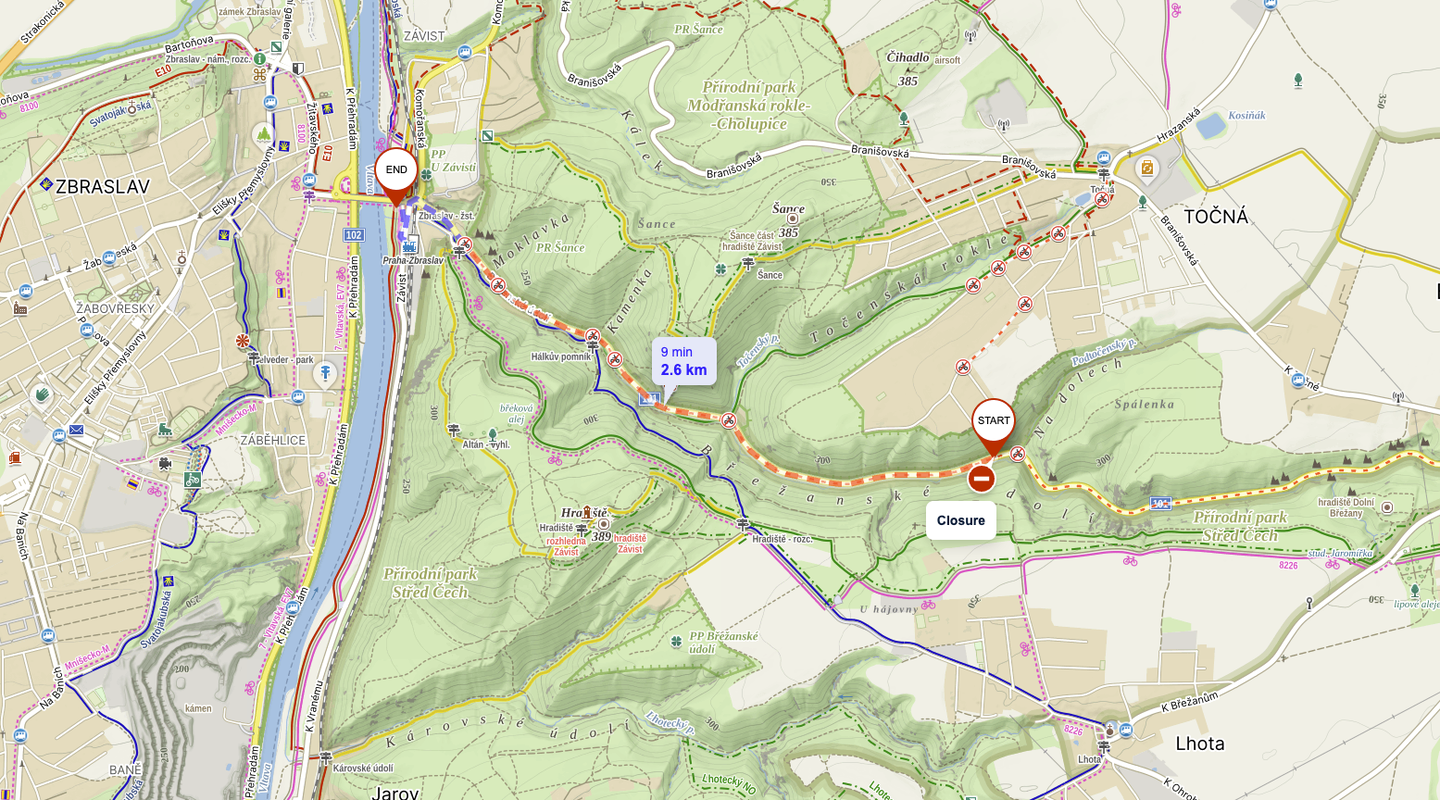
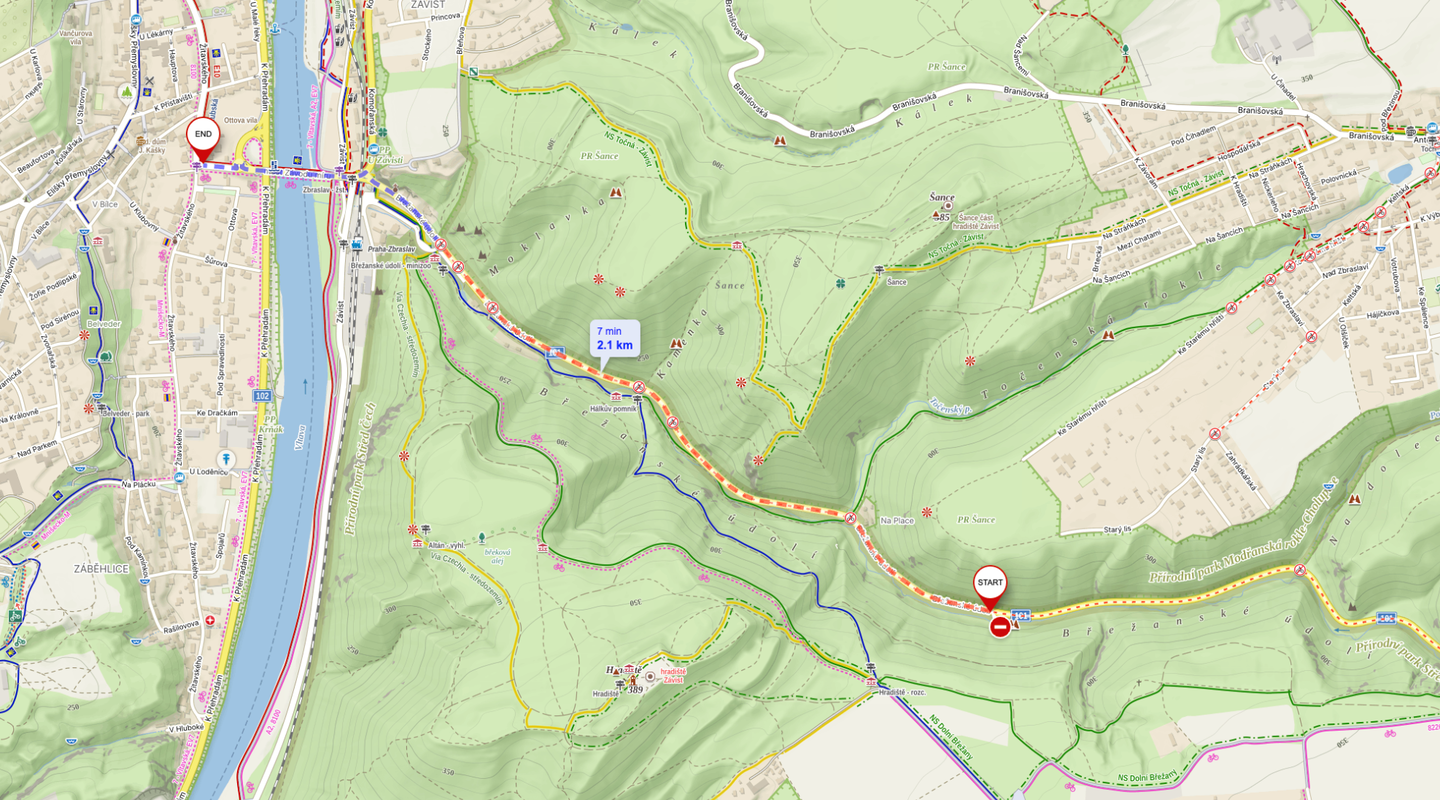
site: every-path slider gets new matched pair; drop road-type & planning placeholders
Wire path1/path2 (Mapy/Strava) into the 'Every path' slider (cache-bust v2).
Remove the two placeholder rows and fold their points into the surviving
sliders: road-types into the terrain row, route-planning into the every-path row.
Drop now-unused .cmp-shot CSS.

diff --git a/site/index.html b/site/index.html
@@ -138,10 +138,6 @@
     .cmp-list { display: flex; flex-direction: column; gap: 36px; margin-top: 10px; }
     .cmp h3 { margin: 0 0 5px; font-size: 19px; }
     .cmp p { margin: 0 0 14px; color: var(--muted); max-width: 760px; }
-    .cmp-shot { width: 100%; aspect-ratio: 18 / 7; border-radius: var(--radius); border: 2px dashed #d8d8e0;
-        background: #fff; display: flex; align-items: center; justify-content: center; color: #a6a6b0;
-        font-size: 14px; text-align: center; padding: 14px; }
-    .cmp-shot img { width: 100%; border-radius: var(--radius); border: 1px solid var(--line); box-shadow: var(--shadow); display: block; }
 
     /* before/after compare slider */
     .ba { position: relative; aspect-ratio: 18 / 10; border-radius: var(--radius); overflow: hidden;
@@ -300,8 +296,8 @@
                 on the left, <a class="strava-link" href="https://www.strava.com/maps/global-heatmap" target="_blank" rel="noopener">Strava</a> on the right.</p>
             <div class="cmp-list">
                 <div class="cmp">
-                    <h3>⛰️ See the terrain</h3>
-                    <p>Gradient shading and contours tell you instantly whether it's hilly or flat, forest or open — Strava's base map stays flat and bare.</p>
+                    <h3>⛰️ See the terrain — and the roads</h3>
+                    <p>Gradient shading and contours tell you instantly whether it's hilly or flat, forest or open — and busy main roads, quiet lanes, and gravel or forest tracks are each coloured differently, so your A→B isn't a highway full of cars. Strava's base map stays flat and bare.</p>
                     <div class="ba">
                         <img class="ba-img" src="img/cmp-terrain-strava.png?v=2" alt="Same area on Strava">
                         <img class="ba-img ba-top" src="img/cmp-terrain-mapy.png?v=2" alt="Same area on Mapy.com">
@@ -312,28 +308,16 @@
                     </div>
                 </div>
                 <div class="cmp">
-                    <h3>🛣️ Know the road before you ride it</h3>
-                    <p>Mapy.com colours a busy main road, a quiet lane, and a gravel or forest track differently — so your A→B isn't a highway full of cars. Strava doesn't tell them apart.</p>
-                    <!-- swap for: <img src="img/compare-roadtype.png" alt="Mapy.com vs Strava road types"> -->
-                    <div class="cmp-shot">Side-by-side screenshot — Mapy.com (left) vs Strava (right)</div>
-                </div>
-                <div class="cmp">
-                    <h3>🛤️ Every path — and what's closed</h3>
-                    <p>Every tiny trail in the middle of nowhere is on Mapy.com, with up-to-date closures. Strava's map misses the small stuff.</p>
+                    <h3>🛤️ Every path — and a smarter planner</h3>
+                    <p>Every tiny trail in the middle of nowhere is on Mapy.com, with up-to-date closures — and when you plan, it snaps to real routes (⌘/Ctrl-click to drop points) and respects MTB vs road. Strava's map misses the small stuff, and its planner is clunkier.</p>
                     <div class="ba">
-                        <img class="ba-img" src="img/cmp-paths-strava.png" alt="Same area on Strava">
-                        <img class="ba-img ba-top" src="img/cmp-paths-mapy.png" alt="Same area on Mapy.com">
+                        <img class="ba-img" src="img/cmp-paths-strava.png?v=2" alt="Same area on Strava">
+                        <img class="ba-img ba-top" src="img/cmp-paths-mapy.png?v=2" alt="Same area on Mapy.com">
                         <div class="ba-handle" aria-hidden="true"></div>
                         <span class="ba-label ba-label--l">Mapy.com</span>
                         <span class="ba-label ba-label--r">Strava</span>
                         <input class="ba-range" type="range" min="0" max="100" value="50" aria-label="Drag to compare Mapy.com and Strava">
                     </div>
-                </div>
-                <div class="cmp">
-                    <h3>🧭 Smarter route planning</h3>
-                    <p>Mapy.com snaps to real routes, ⌘/Ctrl-click drops points fast, and it respects MTB vs road. Strava's planner is clunkier and ignores the terrain.</p>
-                    <!-- swap for: <img src="img/compare-planning.png" alt="Mapy.com vs Strava route planning"> -->
-                    <div class="cmp-shot">Side-by-side screenshot — Mapy.com (left) vs Strava (right)</div>
                 </div>
             </div>
         </div>